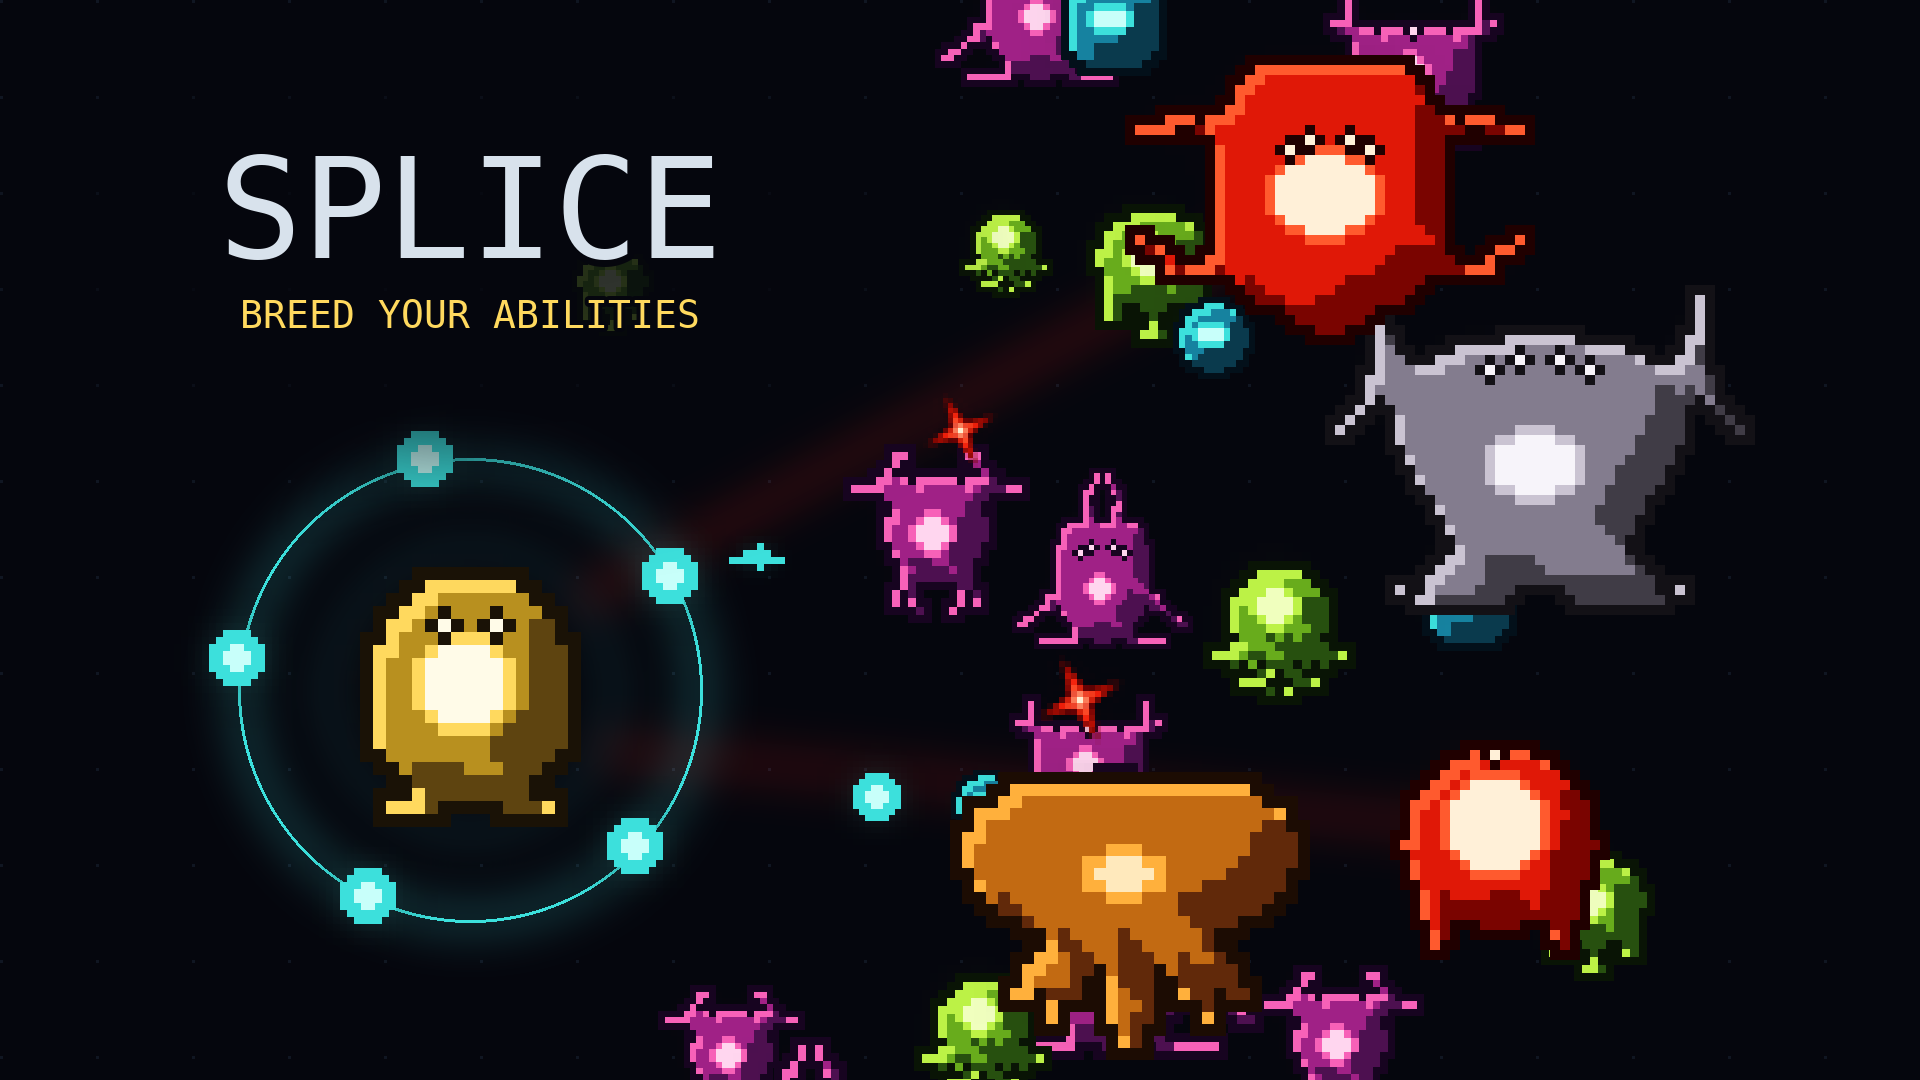
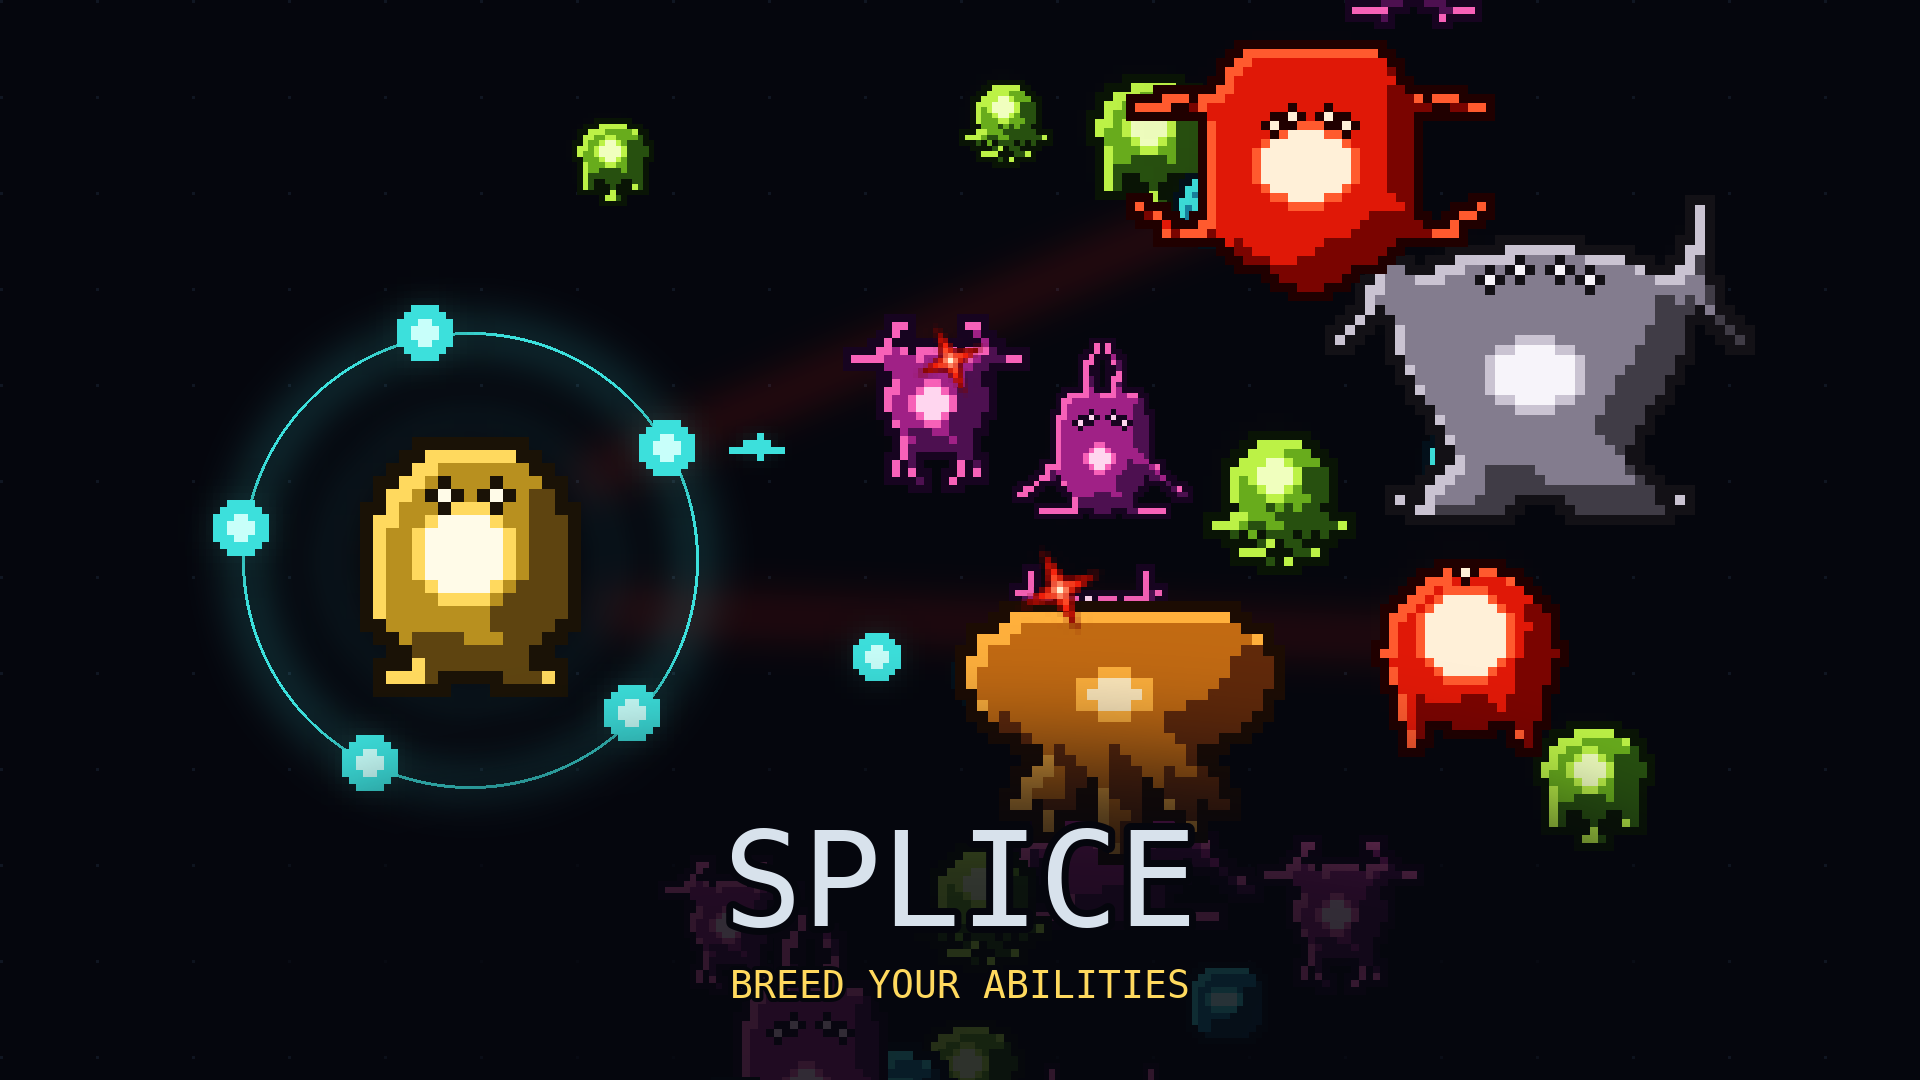
Keep the cover wordmark out of the portal's label zone
The upload tool marks the top-left of every cover as reserved: it overlays its
own labels there, on exactly the pages the cover is shown on. The title sat
right in it, so on the store it would have been half covered.

The wordmark moves to the bottom, and the composition shifts up to make room
for it rather than having the title land on top of a creature.

Changed region(s): [[0.0938, 0.0, 0.9062, 1.0], [0.0938, 0.5806, 0.1562, 0.6417], [0.4375, 0.5806, 0.4688, 0.6417]]

diff --git a/tools/cover.py b/tools/cover.py
@@ -113,9 +113,14 @@ def compose(size, atlas, layout):
         s = atlas.sprite(name, scale)
         base.paste(s, (x - s.width // 2, y - s.height // 2), s)
 
-    # A soft shade under the wordmark. Their first requirement is readable
-    # content, and white letters over a bright creature are not that; a stroke
-    # alone only outlines the problem.
+    # A soft shade under the wordmark.
+    #
+    # Their first requirement is readable content, and white letters over a
+    # bright creature are not that; a stroke alone only outlines the problem.
+    #
+    # The wordmark sits along the bottom because the portal overlays its own
+    # labels across the top-left of every cover — anything placed there is
+    # covered up on the pages the cover actually appears on.
     tx, ty = layout["title"]
     shade = Image.new("L", size, 0)
     sd = ImageDraw.Draw(shade)
@@ -161,56 +166,56 @@ def swarm(cx, cy, count, radius, spread, names, scale, seed=0):
 
 
 def landscape(atlas):
-    px, py = 470, 690
+    px, py = 470, 560
     return compose((1920, 1080), atlas, dict(
-        lattice=96, bloom=22, player=(px, py), aura=232, auraWidth=7,
+        lattice=96, bloom=22, player=(px, py), aura=228, auraWidth=7,
         hostScale=13, orbScale=7, orbits=5,
         enemies=swarm(px, py, 26, (430, 1180), (-1.15, 1.15),
                       ["crawler_1", "mote_0", "spiker_0", "weaver_3",
                        "mote_2", "crawler_3", "spiker_2"], (5.5, 9))
-        + [("brute_2", (1130, 880), 12), ("elite_0", (1540, 470), 10),
-           ("spitter_0", (1500, 830), 10), ("lancer_1", (1330, 200), 10)],
-        telegraphs=[((1500, 830), (px + 130, py + 60)),
-                    ((1330, 200), (px + 110, py - 90))],
-        shots=[("fang", (1080, 700), 6), ("fang", (960, 430), 5),
-               ("shard_frost", (760, 560), 7), ("orb_frost", (880, 800), 6)],
-        title=(470, 210), titleSize=140, anchor="mm", shade=(430, 130),
+        + [("brute_2", (1120, 700), 11), ("elite_0", (1540, 380), 10),
+           ("spitter_0", (1470, 640), 9), ("lancer_1", (1310, 170), 9)],
+        telegraphs=[((1470, 640), (px + 130, py + 50)),
+                    ((1310, 170), (px + 110, py - 80))],
+        shots=[("fang", (1060, 590), 6), ("fang", (950, 360), 5),
+               ("shard_frost", (760, 450), 7), ("orb_frost", (880, 660), 6)],
+        title=(960, 880), titleSize=132, anchor="mm", shade=(760, 120),
         tagline="BREED YOUR ABILITIES", taglineSize=38, taglineGap=104,
     ))
 
 
 def portrait(atlas):
-    px, py = 400, 820
+    px, py = 400, 700
     return compose((800, 1200), atlas, dict(
         lattice=80, bloom=18, player=(px, py), aura=190, auraWidth=6,
         hostScale=11, orbScale=6, orbits=5,
         enemies=swarm(px, py, 22, (330, 620), (-2.9, 0.25),
                       ["crawler_1", "mote_0", "spiker_0", "weaver_3",
                        "mote_2", "crawler_3"], (5, 8), seed=3)
-        + [("brute_2", (160, 1060), 9), ("elite_0", (620, 500), 8),
-           ("spitter_0", (690, 990), 9), ("lancer_1", (120, 620), 9)],
-        telegraphs=[((690, 990), (px + 90, py + 70)),
-                    ((120, 620), (px - 80, py - 70))],
-        shots=[("fang", (560, 940), 5), ("fang", (250, 690), 5),
-               ("shard_frost", (520, 760), 6)],
-        title=(400, 250), titleSize=92, anchor="mm", shade=(300, 90),
+        + [("brute_2", (170, 900), 9), ("elite_0", (620, 420), 8),
+           ("spitter_0", (670, 860), 8), ("lancer_1", (130, 540), 8)],
+        telegraphs=[((670, 860), (px + 90, py + 60)),
+                    ((130, 540), (px - 80, py - 60))],
+        shots=[("fang", (550, 810), 5), ("fang", (255, 590), 5),
+               ("shard_frost", (515, 650), 6)],
+        title=(400, 1030), titleSize=88, anchor="mm", shade=(370, 84),
         tagline="BREED YOUR ABILITIES", taglineSize=25, taglineGap=70,
     ))
 
 
 def square(atlas):
-    px, py = 400, 540
+    px, py = 400, 450
     return compose((800, 800), atlas, dict(
         lattice=80, bloom=16, player=(px, py), aura=165, auraWidth=6,
         hostScale=10, orbScale=6, orbits=5,
         enemies=swarm(px, py, 18, (280, 470), (-2.85, 0.2),
                       ["crawler_1", "mote_0", "spiker_0", "weaver_3",
                        "mote_2"], (5, 7.5), seed=7)
-        + [("brute_2", (165, 700), 8), ("elite_0", (640, 320), 7),
-           ("spitter_0", (700, 640), 8)],
-        telegraphs=[((700, 640), (px + 80, py + 50))],
-        shots=[("fang", (560, 590), 5), ("shard_frost", (300, 400), 5)],
-        title=(400, 140), titleSize=84, anchor="mm", shade=(280, 84),
+        + [("brute_2", (175, 580), 8), ("elite_0", (645, 250), 7),
+           ("spitter_0", (700, 520), 8)],
+        telegraphs=[((700, 520), (px + 80, py + 40))],
+        shots=[("fang", (560, 480), 5), ("shard_frost", (300, 330), 5)],
+        title=(400, 660), titleSize=80, anchor="mm", shade=(340, 76),
         tagline="BREED YOUR ABILITIES", taglineSize=21, taglineGap=62,
     ))
 
